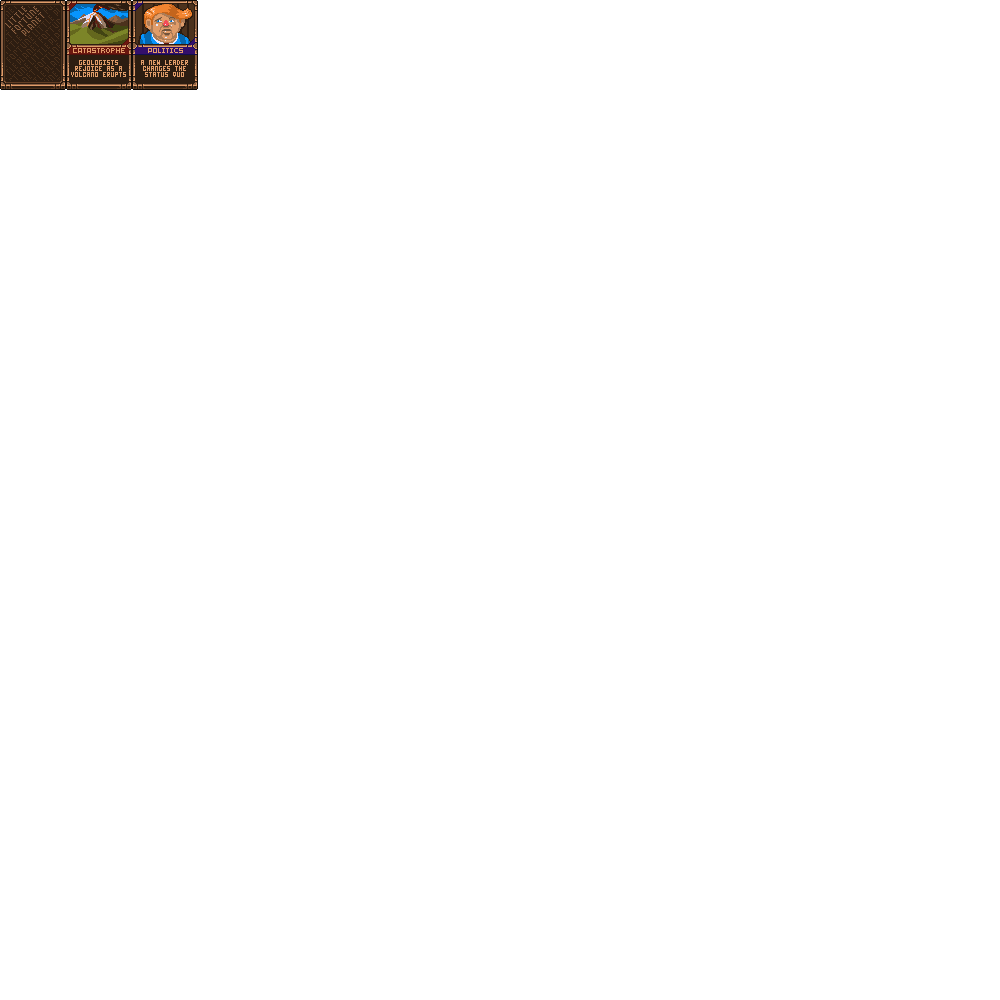
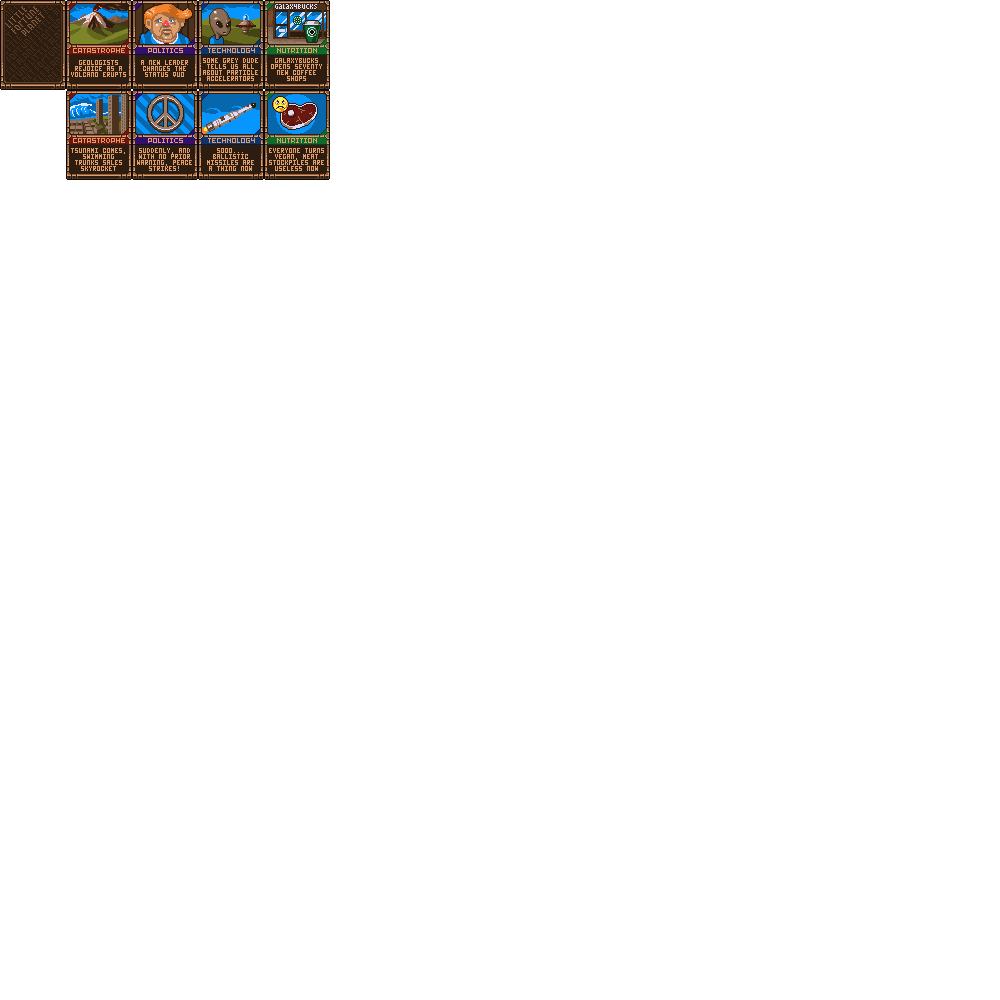
Clouds.

Changed region(s): [[0.062, 0.0, 0.341, 0.186]]

diff --git a/core/src/net/mostlyoriginal/game/system/planet/PlanetRenderSystem.java b/core/src/net/mostlyoriginal/game/system/planet/PlanetRenderSystem.java
@@ -2,10 +2,13 @@ package net.mostlyoriginal.game.system.planet;
 
 import com.artemis.Aspect;
 import com.artemis.E;
+import com.badlogic.gdx.Gdx;
 import com.badlogic.gdx.graphics.Color;
+import com.badlogic.gdx.graphics.GL20;
 import com.badlogic.gdx.graphics.Texture;
 import com.badlogic.gdx.graphics.g2d.SpriteBatch;
 import com.badlogic.gdx.graphics.g2d.TextureRegion;
+import com.badlogic.gdx.math.MathUtils;
 import net.mostlyoriginal.api.system.camera.CameraSystem;
 import net.mostlyoriginal.game.component.Planet;
 import net.mostlyoriginal.game.component.PlanetCell;
@@ -20,6 +23,7 @@ public class PlanetRenderSystem extends FluidIteratingSystem {
 
     private SpriteBatch batch;
     private TextureRegion planetPixel;
+    private TextureRegion cloudPixel;
 
     public PlanetRenderSystem() {
         super(Aspect.all(Planet.class));
@@ -31,7 +35,8 @@ public class PlanetRenderSystem extends FluidIteratingSystem {
     protected void initialize() {
         batch = new SpriteBatch(2000);
 
-        planetPixel = new TextureRegion(new Texture("planetcell.png"),1,1);
+        planetPixel = new TextureRegion(new Texture("planetcell.png"), 1, 1);
+        cloudPixel = new TextureRegion(new Texture("planetcell.png"), 11, 17, 17, 13);
     }
 
     @Override
@@ -52,14 +57,36 @@ public class PlanetRenderSystem extends FluidIteratingSystem {
     @Override
     protected void process(E e) {
         Planet planet = e.getPlanet();
+        renderMain(planet);
+        renderClouds(planet);
+    }
+
+    private void renderMain(Planet planet) {
         for (int y = 0; y < SIMULATION_HEIGHT; y++) {
             for (int x = 0; x < SIMULATION_WIDTH; x++) {
                 final PlanetCell cell = planet.grid[y][x];
-                if ( cell.color == 0 )
+                if (cell.color == 0)
                     continue;
-                Color.rgba8888ToColor(color,cell.color);
-                batch.setColor(color);
-                batch.draw(planetPixel, x+PLANET_X, y + PLANET_Y);
+                if (cell.type != PlanetCell.CellType.CLOUD) {
+                    Color.rgba8888ToColor(color, cell.color);
+                    batch.setColor(color);
+                    batch.draw(planetPixel, x + PLANET_X, y + PLANET_Y);
+                }
+            }
+
+        }
+    }
+
+    private void renderClouds(Planet planet) {
+        for (int y = 0; y < SIMULATION_HEIGHT; y++) {
+            for (int x = 0; x < SIMULATION_WIDTH; x++) {
+                final PlanetCell cell = planet.grid[y][x];
+                if (cell.type == PlanetCell.CellType.CLOUD ) {
+                    int rndSize = 3;
+                    Color.rgba8888ToColor(color, cell.color);
+                    batch.setColor(color);
+                    batch.draw(planetPixel, x + PLANET_X - ((rndSize - 1) / 2), y + PLANET_Y - ((rndSize - 1) / 2), rndSize, rndSize);
+                }
             }
 
         }

diff --git a/core/src/net/mostlyoriginal/game/system/planet/cells/CloudCellSimulator.java b/core/src/net/mostlyoriginal/game/system/planet/cells/CloudCellSimulator.java
@@ -1,0 +1,65 @@
+package net.mostlyoriginal.game.system.planet.cells;
+
+import com.badlogic.gdx.math.MathUtils;
+import net.mostlyoriginal.game.component.PlanetCell;
+
+/**
+ * @author Daan van Yperen
+ */
+public class CloudCellSimulator implements CellSimulator {
+
+    @Override
+    public void color(CellDecorator c, float delta) {
+        c.cell.color = c.planet.cellColor[PlanetCell.CellType.CLOUD.ordinal()];
+    }
+
+    @Override
+    public void process(CellDecorator c, float delta) {
+
+        if (c.cell.nextType == null) {
+            if (MathUtils.random(0, 100) < 1f) {
+                PlanetCell down = c.getNeighbourDown();
+                if (down != null && down.type == PlanetCell.CellType.AIR) {
+                    if (down.nextType == null) {
+                        down.nextType = PlanetCell.CellType.WATER;
+                    }
+                }
+            }
+        }
+
+        int cloudsNearby =
+                countCloudsAs1(c.getNeighbourRight()) +
+                        countCloudsAs1(c.getNeighbourAboveR()) +
+                        countCloudsAs1(c.getNeighbourAbove()) +
+                        countCloudsAs1(c.getNeighbourDown());
+
+        if (c.cell.nextType == null && MathUtils.random(1, 100) < 5 + (cloudsNearby * 10f)) {
+            if (c.cell.depth() > 25) {
+                if (swapWithAirIgnoreSpace(c, c.getNeighbourAbove())) return;
+            }
+            PlanetCell neighbourLeft = c.getNeighbourLeft();
+            if (swapWithAirIgnoreSpace(c,
+                    (c.cell.depth() < 15)
+                            || (MathUtils.random(1, 100) < 2)
+                            || (neighbourLeft != null && neighbourLeft.type == PlanetCell.CellType.CLOUD) ? c.getNeighbourDown() : neighbourLeft)) {
+                return;
+            }
+        }
+    }
+
+    private int countCloudsAs1(PlanetCell cell) {
+        return cell != null && cell.type == PlanetCell.CellType.CLOUD ? 1 : 0;
+    }
+
+    @Override
+    public void updateMask(CellDecorator c, float delta) {
+    }
+
+    private boolean swapWithAirIgnoreSpace(CellDecorator c, PlanetCell dest) {
+        if (dest != null && dest.nextType == null && dest.type == PlanetCell.CellType.AIR) {
+            c.swapWith(dest);
+            return true;
+        }
+        return false;
+    }
+}

diff --git a/core/src/net/mostlyoriginal/game/system/planet/PlanetBackgroundRenderSystem.java b/core/src/net/mostlyoriginal/game/system/planet/PlanetBackgroundRenderSystem.java
@@ -1,0 +1,39 @@
+package net.mostlyoriginal.game.system.planet;
+
+import com.artemis.Aspect;
+import com.artemis.E;
+import com.badlogic.gdx.Gdx;
+import com.badlogic.gdx.graphics.Color;
+import com.badlogic.gdx.graphics.GL20;
+import com.badlogic.gdx.graphics.Texture;
+import com.badlogic.gdx.graphics.g2d.SpriteBatch;
+import com.badlogic.gdx.graphics.g2d.TextureRegion;
+import net.mostlyoriginal.api.system.camera.CameraSystem;
+import net.mostlyoriginal.game.component.Planet;
+import net.mostlyoriginal.game.component.PlanetCell;
+import net.mostlyoriginal.game.system.common.FluidIteratingSystem;
+
+import static net.mostlyoriginal.game.component.G.*;
+
+/**
+ * @author Daan van Yperen
+ */
+public class PlanetBackgroundRenderSystem extends FluidIteratingSystem {
+
+    public PlanetBackgroundRenderSystem() {
+        super(Aspect.all(Planet.class));
+    }
+
+    @Override
+    protected void initialize() {
+    }
+
+    @Override
+    protected void process(E e) {
+        Planet planet = e.getPlanet();
+
+        Color color = Color.valueOf(planet.data.spaceBackgroundColor);
+        Gdx.gl.glClearColor(color.r, color.g, color.b, color.a);
+        Gdx.gl.glClear(GL20.GL_COLOR_BUFFER_BIT);
+    }
+}

diff --git a/core/src/net/mostlyoriginal/game/screen/GameScreen.java b/core/src/net/mostlyoriginal/game/screen/GameScreen.java
@@ -35,7 +35,7 @@ import net.mostlyoriginal.plugin.ProfilerPlugin;
  */
 public class GameScreen extends WorldScreen {
 
-    public static final String BACKGROUND_COLOR_HEX = "000000";
+    public static final String BACKGROUND_COLOR_HEX = "0000FF";
 
     @Override
     protected World createWorld() {
@@ -52,7 +52,6 @@ public class GameScreen extends WorldScreen {
                         new CollisionSystem(),
                         new TransitionSystem(GdxArtemisGame.getInstance()),
 
-                        new ClearScreenSystem(Color.valueOf(BACKGROUND_COLOR_HEX)),
                         new CameraSystem(G.CAMERA_ZOOM),
                         new GameScreenAssetSystem(),
                         new GameScreenSetupSystem(),
@@ -67,6 +66,7 @@ public class GameScreen extends WorldScreen {
                         new PlanetStencilSystem(),
                         new PlanetSimulationSystem(),
 
+                        new PlanetBackgroundRenderSystem(),
                         new PlanetRenderSystem(),
                         new PlanetRenderGravityDebugSystem(),
                         new PlanetRenderTemperatureDebugSystem(),

diff --git a/core/src/net/mostlyoriginal/game/system/planet/PlanetSimulationSystem.java b/core/src/net/mostlyoriginal/game/system/planet/PlanetSimulationSystem.java
@@ -38,6 +38,7 @@ public class PlanetSimulationSystem extends FluidIteratingSystem {
         addSimulator(PlanetCell.CellType.AIR, new AirCellSimulator());
         addSimulator(PlanetCell.CellType.ICE, new IceCellSimulator());
         addSimulator(PlanetCell.CellType.STEAM, new SteamCellSimulator());
+        addSimulator(PlanetCell.CellType.CLOUD, new CloudCellSimulator());
     }
 
     private void addSimulator(PlanetCell.CellType cellType, CellSimulator simulator) {
@@ -66,10 +67,13 @@ public class PlanetSimulationSystem extends FluidIteratingSystem {
     }
 
     private void activateChanges(Planet planet) {
+        CellDecorator planetCell = new CellDecorator(planet);
+        final float delta = world.delta;
         for (int y = 0; y < SIMULATION_HEIGHT; y++) {
             for (int x = 0; x < SIMULATION_WIDTH; x++) {
                 final PlanetCell cell = planet.grid[y][x];
                 cell.activateNextType();
+                simulators[cell.type.ordinal()].color(planetCell.proxies(cell), delta);
             }
         }
     }

diff --git a/core/src/net/mostlyoriginal/game/system/planet/cells/LavaCellSimulator.java b/core/src/net/mostlyoriginal/game/system/planet/cells/LavaCellSimulator.java
@@ -9,12 +9,15 @@ import net.mostlyoriginal.game.component.StatusMask;
  */
 public class LavaCellSimulator implements CellSimulator {
     @Override
-    public void process(CellDecorator c, float delta) {
+    public void color(CellDecorator c, float delta) {
         c.cell.color = c.planet.cellColor[c.cell.type.ordinal()];
+    }
 
+    @Override
+    public void process(CellDecorator c, float delta) {
         // releave pressure.
         if (c.cell.nextType == null) {
-            if (c.planet.lavaPressure > 0) {
+            if (c.planet.lavaPressure > 0 && MathUtils.random(1,5000) < c.planet.lavaPressure && (c.cell.depth() > 50 || MathUtils.random(1,100) < 5)) {
                 if (attemptReleavePressure(c, c.getNeighbourDown())) return;
                 boolean b = MathUtils.randomBoolean(); // flip direction randomly.
                 if (attemptReleavePressure(c, b ? c.getNeighbourLeft() : c.getNeighbourRight())) return;

diff --git a/core/src/net/mostlyoriginal/game/system/planet/cells/AirCellSimulator.java b/core/src/net/mostlyoriginal/game/system/planet/cells/AirCellSimulator.java
@@ -19,8 +19,7 @@ public class AirCellSimulator implements CellSimulator {
     Color workColor = new Color();
 
     @Override
-    public void process(CellDecorator c, float delta) {
-
+    public void color(CellDecorator c, float delta) {
         if (aridColor == null) {
             coldColor = new Color();
             aridColor = new Color();
@@ -37,6 +36,10 @@ public class AirCellSimulator implements CellSimulator {
         workColor.a = c.cell.depth() < AIR_FADE_BAND_WIDTH ? MathUtils.clamp(c.cell.depth() / AIR_FADE_BAND_WIDTH, 0.05f, 1f) : 1f;
 
         c.cell.color = Color.rgba8888(workColor);
+    }
+
+    @Override
+    public void process(CellDecorator c, float delta) {
 
         if (swapIfSwappable(c, c.getNeighbourAbove())) {
             return;

diff --git a/components/src/net/mostlyoriginal/game/component/PlanetCell.java b/components/src/net/mostlyoriginal/game/component/PlanetCell.java
@@ -45,6 +45,10 @@ public class PlanetCell {
         return (down + 3) % 8;
     }
 
+    public int downL() {
+        return (down + 7) % 8;
+    }
+
     public int upR() {
         return (down + 5) % 8;
     }
@@ -53,6 +57,7 @@ public class PlanetCell {
         if (nextType != null) {
             type = nextType;
             nextType = null;
+            sleep=0;
         }
         if (nextColor != -1) {
             color = nextColor;
@@ -71,7 +76,8 @@ public class PlanetCell {
         AIR(0f, true),
         ICE(null, false),
         STEAM(-0.5f, true),
-        LAVA_CRUST(5f, true);
+        LAVA_CRUST(5f, true),
+        CLOUD(-0.7f, false);
 
         public final Float density;
         private boolean flows;

diff --git a/core/src/net/mostlyoriginal/game/system/DrawingSystem.java b/core/src/net/mostlyoriginal/game/system/DrawingSystem.java
@@ -53,6 +53,12 @@ public class DrawingSystem extends FluidIteratingSystem {
         if (Gdx.input.isKeyPressed(Input.Keys.NUM_4)) {
             type = PlanetCell.CellType.ICE;
         }
+        if (Gdx.input.isKeyPressed(Input.Keys.NUM_5)) {
+            type = PlanetCell.CellType.STEAM;
+        }
+        if (Gdx.input.isKeyPressed(Input.Keys.NUM_6)) {
+            type = PlanetCell.CellType.CLOUD;
+        }
         if (Gdx.input.isKeyJustPressed(Input.Keys.F1)) {
             planetRenderGravityDebugSystem.active = !planetRenderGravityDebugSystem.active;
         }

diff --git a/core/src/net/mostlyoriginal/game/system/planet/cells/CellDecorator.java b/core/src/net/mostlyoriginal/game/system/planet/cells/CellDecorator.java
@@ -41,6 +41,10 @@ public class CellDecorator {
         return planet.get(cell.x + PlanetCell.directions[cell.left()][0], cell.y + PlanetCell.directions[cell.left()][1]);
     }
 
+    public PlanetCell getNeighbourDownLeft() {
+        return planet.get(cell.x + PlanetCell.directions[cell.downL()][0], cell.y + PlanetCell.directions[cell.downL()][1]);
+    }
+
     public PlanetCell getNeighbourDown() {
         return cell.down != -1 ? planet.get(cell.x + PlanetCell.directions[cell.down][0], cell.y + PlanetCell.directions[cell.down][1]) : null;
     }

diff --git a/core/src/net/mostlyoriginal/game/system/planet/cells/WaterCellSimulator.java b/core/src/net/mostlyoriginal/game/system/planet/cells/WaterCellSimulator.java
@@ -9,8 +9,12 @@ import net.mostlyoriginal.game.component.StatusMask;
  */
 public class WaterCellSimulator implements CellSimulator {
     @Override
-    public void process(CellDecorator c, float delta) {
+    public void color(CellDecorator c, float delta) {
         c.cell.color = c.planet.cellColor[PlanetCell.CellType.WATER.ordinal()];
+    }
+
+    @Override
+    public void process(CellDecorator c, float delta) {
 
         // Freeze by ice.
         if (c.countNeighbour(PlanetCell.CellType.ICE) >= 3) {

diff --git a/core/src/net/mostlyoriginal/game/system/planet/cells/SteamCellSimulator.java b/core/src/net/mostlyoriginal/game/system/planet/cells/SteamCellSimulator.java
@@ -10,8 +10,12 @@ import net.mostlyoriginal.game.component.PlanetCell;
 public class SteamCellSimulator implements CellSimulator {
 
     @Override
-    public void process(CellDecorator c, float delta) {
+    public void color(CellDecorator c, float delta) {
         c.cell.color = c.planet.cellColor[PlanetCell.CellType.STEAM.ordinal()];
+    }
+
+    @Override
+    public void process(CellDecorator c, float delta) {
 
         if (c.cell.nextType == null) {
             if (MathUtils.random(0,100) < 1f) {
